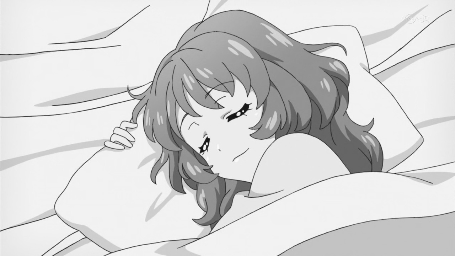
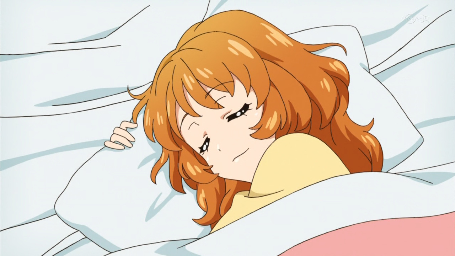
tudo certinho agr

diff --git a/Exercicio 2/main.py b/Exercicio 2/main.py
@@ -11,7 +11,7 @@ RANGE_MAX = 16
 
 
 def sample_image(image, interval):
-    height, width = image.shape
+    height, width, _ = image.shape
 
     new_height = height // interval
     new_width = width // interval
@@ -26,7 +26,7 @@ def sample_image(image, interval):
 
 
 if __name__ == '__main__':
-    input_image = cv.imread(INPUT_IMAGE, cv.IMREAD_GRAYSCALE)
+    input_image = cv.imread(INPUT_IMAGE)
 
     for i in range(RANGE_MIN, RANGE_MAX + 1):
         sampled_image = sample_image(input_image, i)

diff --git a/Exercicio 3/main.py b/Exercicio 3/main.py
@@ -23,8 +23,6 @@ if __name__ == '__main__':
 
     for i in range(RANGE_MIN, RANGE_MAX + 1):
         quantized_image = quantize_image(input_image, i)
-        print(f'Quantized image with {i} bits')
-        print(quantized_image)
 
         output_filename = f'{OUTPUT_FOLDER}/quantized_image_{i}.png'
         cv.imwrite(output_filename, quantized_image)
